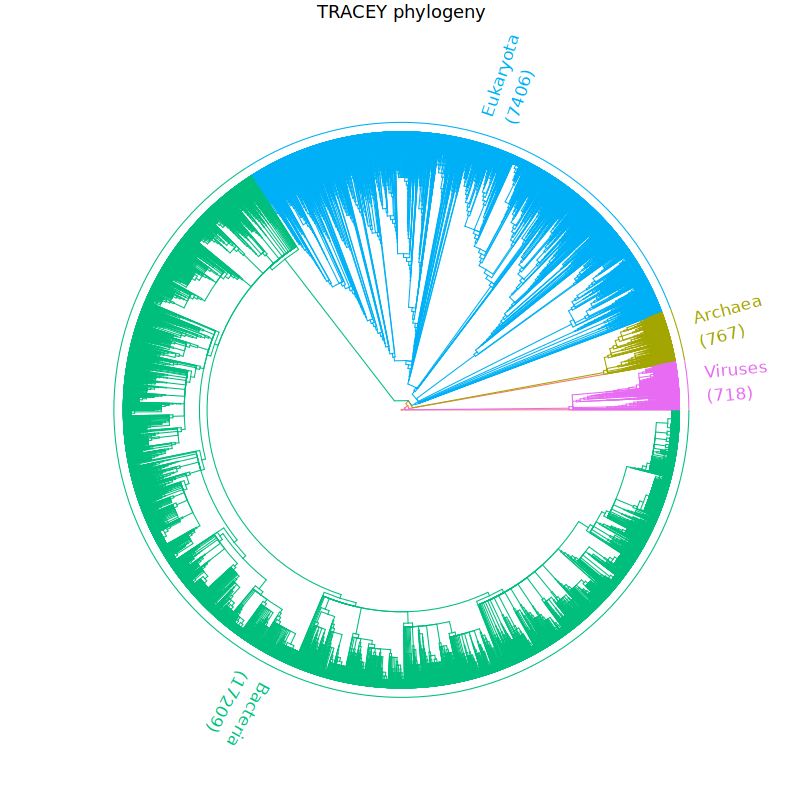
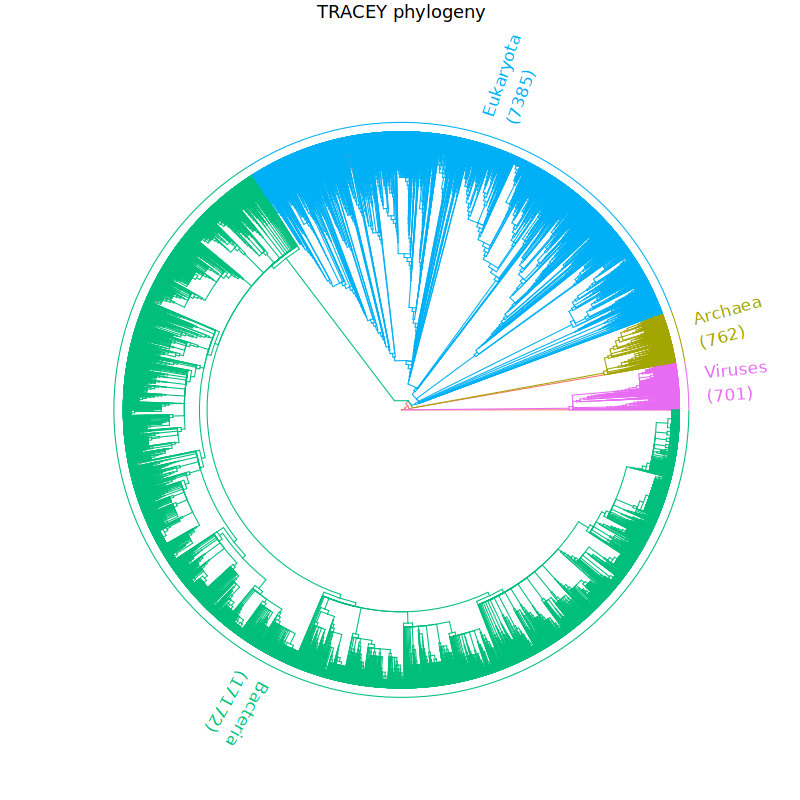
hotfix: Features - async functions

diff --git a/apps/templates/home/features.html b/apps/templates/home/features.html
@@ -113,6 +113,8 @@
 
 
                         <div class="features-container">
+
+							<!-- Update Taxonomies -->
                             <div class="feature-card">
                                 <div class="feature-header">Update Taxonomies</div>
                                 <div class="feature-body">
@@ -125,7 +127,9 @@
                                         <p style="font-size: 13px;"> Check last update results <a href="update_taxonomy_results" target="_blank">here</a></p>
                                     </div>
                                     <div class="feature-body-footer">
-                                        <input type="submit" value="Update Taxonomy" name='update_taxonomy' id='update_taxonomy'>
+                                        {% if last_taxonomy_update != "Update in progress" %}
+											<input type="submit" value="Update Taxonomy" name='update_taxonomy' id='update_taxonomy'>
+										{% endif %}
                                         <i><p class="p-footer" id='taxonomy_last_update'>Last update on: {{last_taxonomy_update}}</p></i>
                                     </div>
                                     <div class="progress-bar" style="background: transparent;">
@@ -137,6 +141,8 @@
                                     </form>
                                 </div>
                             </div>
+
+							<!-- Build Phylogenetic Tree -->
                             <div class="feature-card">
                                 <div class="feature-header">Build Phylogenetic Tree</div>
                                 <div class="feature-body">
@@ -151,7 +157,9 @@
                                         </p>
                                     </div>
                                     <div class="feature-body-footer">
-                                        <input type="submit" value="Update Tree" name='update_tree' id='update_tree'>
+										{% if last_tree_update != "Tree in progress" %}
+											<input type="submit" value="Update Tree" name='update_tree' id='update_tree'>
+										{% endif %}
                                         <i><p class="p-footer" id='tree_last_update'>Last update on: {{last_tree_update}}</p></i>
                                     </div>
                                     <div class="progress-bar" style="background: transparent;">
@@ -163,10 +171,14 @@
                                     </form>
                                 </div>
                             </div>
+
+							<!-- Generate HMM models -->
                             <div class="feature-card">
                                 <div class="feature-header">Generate HMM models</div>
                                 <div class="feature-body"> This section will be updated in the future...</div>
                             </div>
+
+							<!-- Update Sequences -->
 							<div class="feature-card">
                                 <div class="feature-header">Update TRACEY Sequences</div>
                                 <div class="feature-body">
@@ -176,7 +188,9 @@
 											<p style="margin-bottom: 15px;">'Live' sequences from TRACEY containing NCBI Id will be updated according to NCBI data.</p>
 											<p style="margin-bottom: 15px;">'Live' sequences without NCBI Id will remain as they are.</p>
 											<img src="{{ASSETS_ROOT}}/img/images/UpdateSequences.png" style="margin: auto; margin-top: 10px; width: 150px; height: auto; border-radius: 10px 10px 10px 10px;">
-											<p style="font-size: 13px;"> Check last update results <a href="update_sequences_results" target="_blank">here</a></p>
+											{% if last_sequences_update_end != "Update in progress" %}
+												<p style="font-size: 13px;"> Check last update results <a href="update_sequences_results" target="_blank">here</a></p>
+											{% endif %}
 										</div>
 										<div class="feature-body-footer">
 											{% if last_sequences_update_end != "Update in progress" %}
@@ -207,7 +221,9 @@
 									</form>
 								</div>
                             </div>
+
                             <span class="stretch"></span>
+
                         </div>
 
                     </div>

diff --git a/apps/home/views.py b/apps/home/views.py
@@ -1430,10 +1430,21 @@ def features(request):
 		user.last_login = now()
 		user.save()
 
+	runout = subprocess.run(['ps', 'aux'], capture_output=True)
+
 	taxonomy_file = 'utils/ncbi_taxonomy/taxdmp/TaxonomyUpdate.report.txt'
 	sequences_file = [f for f in os.listdir('utils/traceySequenceUpdater/') if f.endswith('.log')][0]
 	tree_file = 'utils/ncbi_taxonomy/TRACEY_phylogeneticTree.newick'
-	if os.path.isfile(taxonomy_file):
+
+	# Check UpdateTraceyTaxonomy status
+	psLine = [x for x in str(runout.stdout.decode("utf-8")).strip().split("\n") if "UpdateTraceyTaxonomies" in x]
+	if psLine:
+		taxonomyStatus = psLine[0].split()[7]
+	else:
+		taxonomyStatus = ''
+	if "R" in taxonomyStatus or "S" in taxonomyStatus:
+		last_taxonomy_update = "Update in progress"
+	elif os.path.isfile(taxonomy_file):
 		try:
 			last_taxonomy_update = open(taxonomy_file, 'r').readlines()[0].split("(Date: ")[1].split(" ")[0][:-1]
 			last_taxonomy_update = ['Today' if last_taxonomy_update == str(datetime.datetime.now().date()) else last_taxonomy_update][0]
@@ -1441,9 +1452,10 @@ def features(request):
 			last_taxonomy_update = 'Last update not found'
 	else:
 		last_taxonomy_update = 'Last update not found'
+
+	# Check UpdateTraceySequences status
 	if sequences_file:
 		last_sequences_update = "-".join(sequences_file.split(".")[1:-1])
-		runout = subprocess.run(['ps', 'aux'], capture_output=True)
 		psLine = [x for x in str(runout.stdout.decode("utf-8")).strip().split("\n") if "UpdateTraceySequences" in x]
 		if psLine:
 			status = psLine[0].split()[7]
@@ -1457,9 +1469,11 @@ def features(request):
 	else:
 		last_sequences_update = 'Last update not found'
 		last_sequences_update_end = ''
+
+	# Check UpdateTraceyTree status
 	if os.path.isfile(tree_file):
 		if open(tree_file, 'r').readlines()[0] == "In progress":
-			last_tree_update = "In progress"
+			last_tree_update = "Tree in progress"
 		else:
 			last_tree_update = str(datetime.datetime.fromtimestamp(os.stat(tree_file).st_mtime)).split(" ")[0]
 			last_tree_update = ['Today' if last_tree_update == str(datetime.datetime.now().date()) else last_tree_update][0]
@@ -1473,6 +1487,7 @@ def features(request):
 			   "last_sequences_update_end": last_sequences_update_end,
 			   "last_tree_update": last_tree_update,
 			   }
+
 	return render(request, 'home/features.html', context)
 
 
@@ -1482,7 +1497,9 @@ def update_taxonomy(request):
 	if dict(request.GET)['taxonomy_last_update'] == ['Last update on: Today']:
 		return HttpResponse('Taxonomy already up to date.')
 	else:
-		outcome = TaxonomyUpdater.update_tracey_taxonomies()
+		# outcome = TaxonomyUpdater.update_tracey_taxonomies()
+		cmd = ['python3', 'manage.py', 'UpdateTraceyTaxonomies']
+		outcome = subprocess.Popen(cmd, stdout=subprocess.PIPE, stderr=subprocess.PIPE)
 		return HttpResponse(outcome)
 
 
@@ -1493,7 +1510,8 @@ def update_sequences(request):
 	if request.GET['shortName'] != "All":
 		cmd.append("--species")
 		cmd.append(request.GET['shortName'])
-	outcome = subprocess.run(cmd, capture_output=True)
+	# outcome = subprocess.run(cmd, capture_output=True)
+	outcome = subprocess.Popen(cmd, stdout = subprocess.PIPE, stderr = subprocess.PIPE)
 	return HttpResponse(outcome)
 
 @login_required(login_url="/noPermits.html")
@@ -1502,7 +1520,9 @@ def update_tree(request):
 	if dict(request.GET)['tree_last_update'] == ['Last update on: Today']:
 		return HttpResponse('Tree already up to date.')
 	else:
-		outcome = TreeUpdater.update_tracey_tree()
+		# outcome = TreeUpdater.update_tracey_tree()
+		cmd = ['python3', 'manage.py', 'UpdateTraceyTree']
+		outcome = subprocess.Popen(cmd, stdout=subprocess.PIPE, stderr=subprocess.PIPE)
 		return HttpResponse(outcome)
 
 

diff --git a/utils/ncbi_taxonomy/TaxonomyUpdater.py b/utils/ncbi_taxonomy/TaxonomyUpdater.py
@@ -104,13 +104,13 @@ def create_ncbi_taxonomy(ncbi_id, ncbi, report_file=''):
     except:
         taxonomy_parent = create_ncbi_taxonomy(node['parent_tax_id'], ncbi)
     # Check if shortname exists
-    name = [name['name_txt'].split(" ") if len(name['name_txt'].split(" ")) > 1 else ''][0]
-    if not name or len(name) < 2:
+    _name = [name['name_txt'].split(" ") if len(name['name_txt'].split(" ")) > 1 else ''][0]
+    if not _name or len(_name) < 2:
         tax_shortname = ''
     else:
         lengths = [[2,2], [2,3], [3,2], [3,3]]
         for l in lengths:
-            tax_shortname = name[0][:l[0]].title()+name[1][:l[1]].title()
+            tax_shortname = _name[0][:l[0]].title()+_name[1][:l[1]].title()
             if not Taxonomies.objects.filter(taxonomyshortname=tax_shortname):
                 break
         if Taxonomies.objects.filter(taxonomyshortname=tax_shortname):
@@ -134,6 +134,7 @@ def merge_ncbi_taxonomy(taxonomy, ncbi, report_file=''):
     # Default values
     time_now = datetime.datetime.now().date()
     # Search for merged taxonomy - create parent taxonomy if does not exists
+    ncbi_id = str(taxonomy.ncbi_taxonomy_id)
     ncbi_merged_id = ncbi['dict_merged'][ncbi_id]['new_tax_id']
     taxonomy.taxonomystatus = 'merged by ncbi'
     taxonomy.taxonomycomments = taxonomy.taxonomycomments + '; %s - automatically Updated by TaxonomyUpdater: merged into %s by NCBI' % (str(time_now), ncbi_merged_id)
@@ -145,7 +146,7 @@ def merge_ncbi_taxonomy(taxonomy, ncbi, report_file=''):
     # Update reportFile
     if report_file:
         with open(report_file, 'a') as rf:
-            rf.write("MERGED Taxonomy (id:%s): %s - merged into %s (id:%s) by NCBI\n" % (tracey_id, taxonomy.scientificname, merged_taxonomy.scientificname, merged_taxonomy.taxonomy_id))
+            rf.write("MERGED Taxonomy (id:%s): %s - merged into %s (id:%s) by NCBI\n" % (taxonomy.taxonomy_id, taxonomy.scientificname, merged_taxonomy.scientificname, merged_taxonomy.taxonomy_id))
     # Make sequences from old taxonomies to point to new taxonomy
     for seq in taxonomy.sequences_set.all():
         seq.taxonomy_id = merged_taxonomy.taxonomy_id
@@ -202,13 +203,18 @@ def update_ncbi_taxonomy(taxonomy, ncbi, report_file=''):
                 rf.write("UPDATED Taxonomy (id:%s): %s\n updated fields - %s\n"%(taxonomy.taxonomy_id, taxonomy.scientificname, ", ".join(updated_fields)))
 
     return taxonomy
+
+
 def update_tracey_taxonomies(path = 'utils/ncbi_taxonomy/taxdmp/', report_file_name='TaxonomyUpdate.report.txt'):
     time_now = datetime.datetime.now().date()
     # Check date of last update in report_file_name
     if not os.path.isdir(path):
         os.mkdir(path)
     if report_file_name in os.listdir(path):
-        fheader = open(path+report_file_name, 'r').readlines()[0]
+        try:
+            fheader = open(path+report_file_name, 'r').readlines()[0]
+        except:
+            fheader = ''
         if str(time_now) in fheader:
             return '\nALERT: Last update of TRACEY taxonomies in %s is today (%s)'%(report_file_name, str(time_now))
     # Download current NCBI taxonomy files
@@ -248,7 +254,7 @@ def update_tracey_taxonomies(path = 'utils/ncbi_taxonomy/taxdmp/', report_file_n
     ## Merge Taxonomies that have been merged by NCBI
     print("Merging Taxonomies that have been merged by NCBI")
     for ncbi_id in ncbi['dict_merged']:
-        try: # Check if taxonomy exists and merge it
+        try: # Check if taxonomy exists in TRACEY and merge it
             taxonomy = Taxonomies.objects.get(ncbi_taxonomy_id=ncbi_id)
             merge_ncbi_taxonomy(taxonomy, ncbi, report_file=path+report_file_name)
         except:

diff --git a/utils/ncbi_taxonomy/TreeUpdater.py b/utils/ncbi_taxonomy/TreeUpdater.py
@@ -42,8 +42,9 @@ def update_tracey_tree(taxa = taxa):
     replacement = [":", "-", "'", "*", "+", "#", "(", ")", ".", ",", "=", "/", ";", "\t"]
     h2 = soup.find_all('h2')
     tax_ids = {}
-    for tag in h2:
-        trTags = tag.find_all("tr")
+    for tag_ in h2:
+        trTags = tag_.find_all("tr")
+        if not trTags: continue
         for tag in trTags:
             tdTags = tag.find_all("td")
             if len(tdTags) < 3: continue
@@ -67,7 +68,13 @@ def update_tracey_tree(taxa = taxa):
     # Generate tree from active TRACEY ids
     bashCommand = ['/home/cpulidoq/.cargo/bin/fastax', 'tree', '-n', '-f', '"(%taxid)"'] + active_ids
     runout = subprocess.run(bashCommand, capture_output=True)
-    tree = str(runout.stdout.decode("utf-8")).strip().replace('"', "")
+    while runout.stderr:
+        stderr = runout.stderr.decode("utf-8").replace('fastax: No such ID: ', "").strip()
+        for idx in stderr.split():
+            active_ids.remove(idx)
+        bashCommand = ['/home/cpulidoq/.cargo/bin/fastax', 'tree', '-n', '-f', '"(%taxid)"'] + active_ids
+        runout = subprocess.run(bashCommand, capture_output=True)
+    tree = str(runout.stdout.decode("utf-8")).strip()
 
     # Find all NCBI_IDs in the newick tree
     matches = re.finditer('\d+', tree)

diff --git a/apps/management/commands/UpdateTraceyTree.py b/apps/management/commands/UpdateTraceyTree.py
@@ -1,0 +1,21 @@
+import requests, io, subprocess, sys, re, os
+
+from utils.ncbi_taxonomy.TreeUpdater import update_tracey_tree
+from datetime import date
+from django.core.management.base import BaseCommand
+from django.db.models import Q
+
+from bs4 import BeautifulSoup
+from apps.home.models import *
+
+taxa = 'superkingdom'
+
+class Command(BaseCommand):
+
+    def add_arguments(self, parser):
+        parser.add_argument("--taxa", action="store", dest="taxa", default="superkingdom", help="Taxa group to split taxonomies by groups (colors)")
+
+    def handle(self, *args, **options):
+        today = date.today()
+
+        update_tracey_tree(taxa = options['taxa'])

diff --git a/apps/management/commands/UpdateTraceyTaxonomies.py b/apps/management/commands/UpdateTraceyTaxonomies.py
@@ -1,0 +1,21 @@
+import requests, io, subprocess, sys, re, os
+
+from utils.ncbi_taxonomy.TaxonomyUpdater import update_tracey_taxonomies
+from datetime import date
+from django.core.management.base import BaseCommand
+from django.db.models import Q
+
+from bs4 import BeautifulSoup
+from apps.home.models import *
+
+taxa = 'superkingdom'
+
+class Command(BaseCommand):
+
+    def add_arguments(self, parser):
+        parser.add_argument("--taxa", action="store", dest="taxa", default="superkingdom", help="Taxa group to split taxonomies by groups (colors)")
+
+    def handle(self, *args, **options):
+        today = date.today()
+
+        update_tracey_taxonomies()
